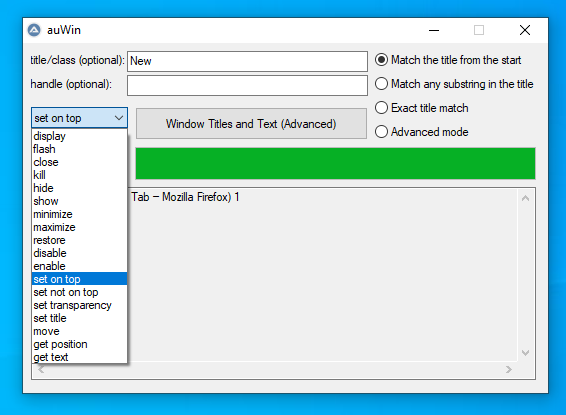
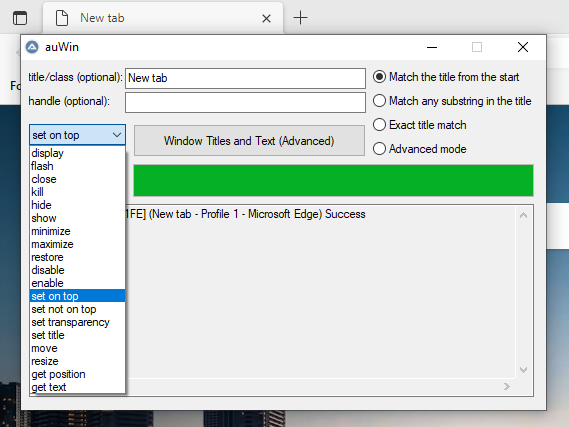
Split move and resize up

diff --git a/README.md b/README.md
@@ -180,9 +180,13 @@ Sets the title of the selected windows.
 
 #### move
 
-Moves all windows to the given position. Afterwards, the size of the windows can optionally be set. Windows can also be moved to a negative position. As an example Y to `-32`:
+Moves all windows to the given position. Windows can also be moved to a negative position. As an example Y to `-32`:
 
 ![moved to y negative 32](assets/introduction/actions/moved_to_y_negative_32.png)
+
+#### resize
+
+Changes the size all selected windows.
 
 #### get position
 
